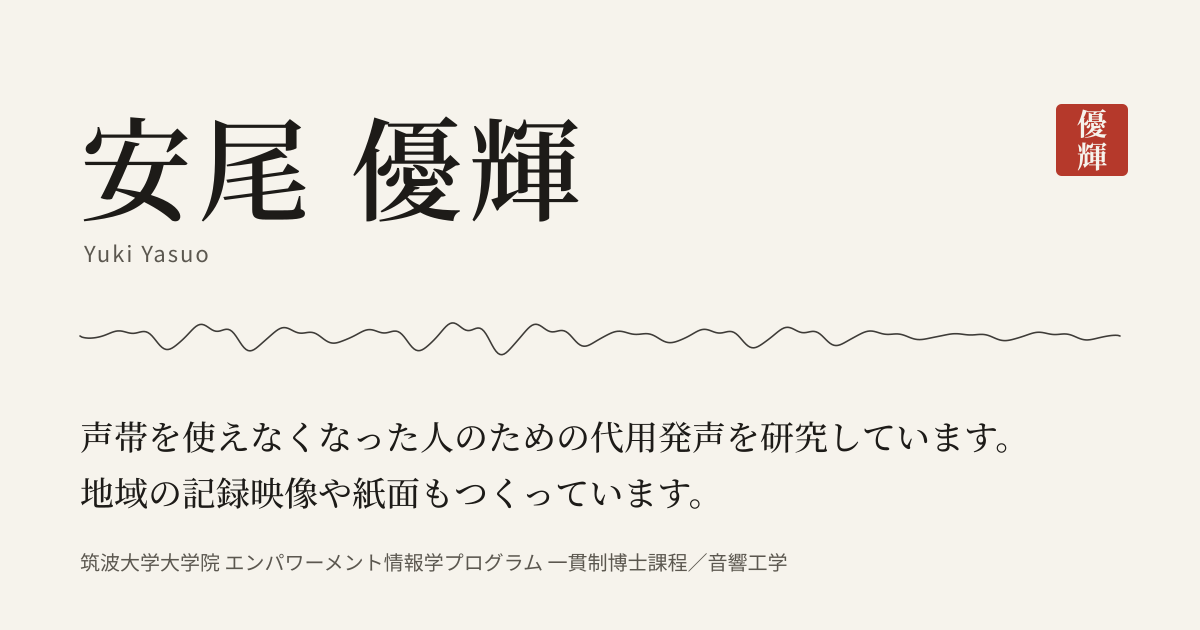
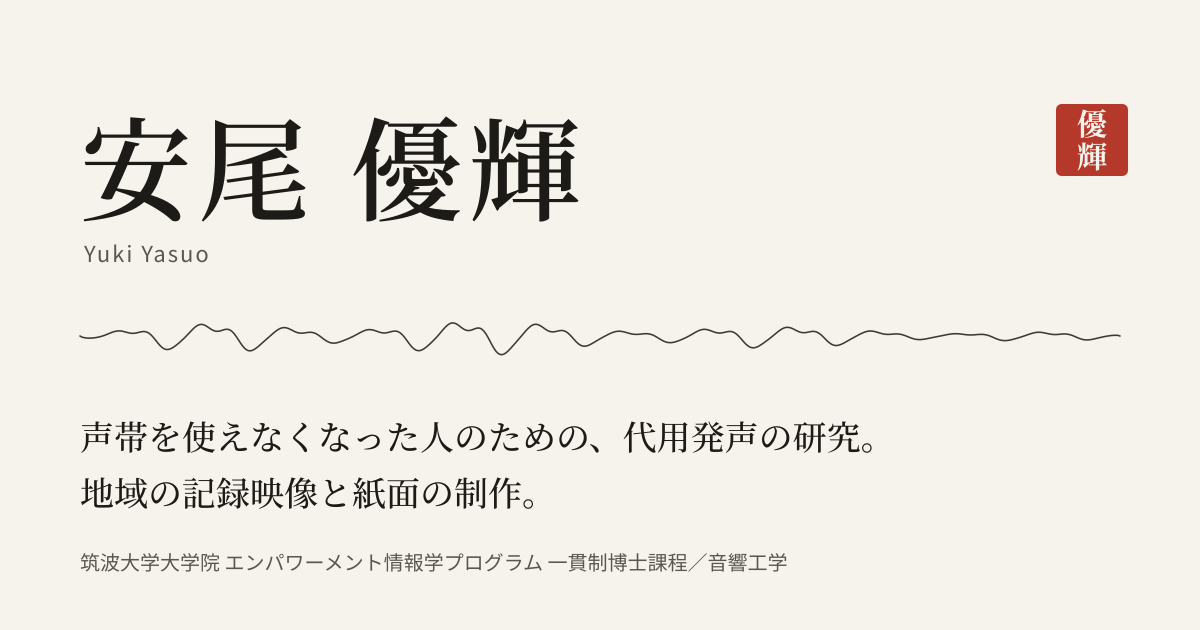
文章を体言止めに統一し、制作物へのリンクを廃止
- ヒーロー・自己紹介・制作と研究・できることの文章を体言止めに書き直し
- 制作物へのリンク（このサイトのGitHubリンク）を外し、Work 型から link を削除
- OGP画像の二文を更新して再生成。AGENT.md / README に文体とリンクのルールを追記

Claude-Session: https://claude.ai/code/session_015h4DyDUHXbUh6sVWR5egaT

diff --git a/data/works.ts b/data/works.ts
@@ -2,19 +2,19 @@ export interface Work {
   title: string
   period: string // 表示用の時期（例: '2025年10月撮影、2026年10月改訂'）
   role: string // 担当した作業（例: '編集・字幕'）
-  summary: string[] // 本文。段落ごとに1要素
-  link?: { href: string; label: string } // 外部リンク（任意。動画へのリンクは載せない）
+  summary: string[] // 本文。段落ごとに1要素。体言止めで書く
 }
 
 // 並び順は見せたい順（おおむね動きの新しいものが上）。研究も制作と同じ並びに置く。
+// 制作物へのリンク（動画・リポジトリ）は載せない。
 export const works: Work[] = [
   {
     title: '熊野古道 中辺路の郷土料理 記録映像',
     period: '2025年10月撮影、2026年10月改訂',
     role: '編集・字幕',
     summary: [
-      '熊野古道・中辺路に伝わる郷土料理を、地元の方の調理と語りで記録した全9編。食材の説明から始まり、茶粥、めはり寿司、さんま寿司、栗ご飯、柿なます、天ぷら、いたどり、ぜんまいと続きます。',
-      '2026年の秋に全編を改訂しました。料理ごとの手順を追えるよう要点の字幕を入れ直し、語りの順番を組み替え、見出しの位置を揃えています。改訂前後と撮影素材の対応は表で管理し、カットごとに音のずれがないか照合しました。字幕の配置と書き出しは、PythonからDaVinci Resolveを操作して揃えています。',
+      '熊野古道・中辺路に伝わる郷土料理を、地元の方の調理と語りで記録した全9編。食材の説明に始まり、茶粥、めはり寿司、さんま寿司、栗ご飯、柿なます、天ぷら、いたどり、ぜんまい。',
+      '2026年秋に全編を改訂。料理ごとの手順を追えるよう要点の字幕を入れ直し、語りの順番を組み替え、見出しの位置を統一。改訂前後と撮影素材の対応は表で管理し、カットごとに音のずれを照合。字幕の配置と書き出しは、PythonからDaVinci Resolveを操作して自動化。',
     ],
   },
   {
@@ -22,8 +22,8 @@ export const works: Work[] = [
     period: '2025年8月、2026年8月',
     role: '撮影・編集',
     summary: [
-      '長野県伊那市で開かれる中高生の合宿「伊那グローカルキャンプ」の報告動画。地域で活躍する人たちと中高生が語り合う合宿です。',
-      '2年続けて担当し、撮影から編集・納品までを一人で行いました。',
+      '長野県伊那市で開かれる中高生の合宿「伊那グローカルキャンプ」の報告動画。地域で活躍する人たちと中高生が語り合う合宿。',
+      '2年続けて担当。撮影から編集・納品までを一人で。',
     ],
   },
   {
@@ -31,39 +31,34 @@ export const works: Work[] = [
     period: '2025年〜',
     role: '研究',
     summary: [
-      '声帯を使えなくなった人が、自然な操作と発音で話せる代用発声システムの研究。卒業研究では、口腔内に音源を導入して自然音声のスペクトルを再現する方法に取り組みました。',
-      '博士課程ではトーキングモジュレータ方式で、操作のしやすさと発音の自然さを同時に上げる方法を研究しています。',
+      '声帯を使えなくなった人が、自然な操作と発音で話せる代用発声システムの研究。卒業研究は、口腔内に音源を導入して自然音声のスペクトルを再現する方法。',
+      '博士課程ではトーキングモジュレータ方式で、操作のしやすさと発音の自然さを同時に上げる方法を研究中。',
     ],
   },
   {
     title: 'ポートフォリオサイト（このサイト）',
     period: '2026年',
     role: '設計・実装',
-    summary: [
-      'Next.jsの静的書き出しでGitHub Pagesに置いています。2026年10月に、黒地のテック調から、紙色の地に墨色で組む印刷物のような見た目へ作り直しました。',
-    ],
-    link: { href: 'https://github.com/yukikari/my-portfolio', label: 'GitHubでソースを見る' },
+    summary: ['Next.jsの静的書き出しでGitHub Pagesに公開。文章はデータファイルに集約し、2026年10月に全面的に作り直し。'],
   },
   {
     title: 'オンライン文化祭の動画配信',
     period: '2021年',
     role: '企画・編集・配信',
     summary: [
-      'コロナ禍で来場できなくなった文化祭を、30本以上の動画とライブ中継で届けました。文化委員会に動画班を立ち上げ、企画から配信までを回しました。',
+      'コロナ禍で来場できなくなった文化祭を、30本以上の動画とライブ中継で配信。文化委員会に動画班を立ち上げ、企画から配信までを担当。',
     ],
   },
   {
     title: '生徒会誌の紙面デザイン',
     period: '2020年',
     role: '紙面設計・編集',
-    summary: ['生徒会誌の紙面を初めて内製化し、例年の2倍の紙面を作りました。'],
+    summary: ['生徒会誌の紙面を初めて内製化し、例年の2倍の紙面を制作。'],
   },
   {
     title: '文化祭の待ち時間表示システム',
     period: '2018年',
     role: '設計・実装',
-    summary: [
-      '複数の担当者がそれぞれ更新した待ち時間を、来場者向けの表示に即時反映する仕組みを自作しました。',
-    ],
+    summary: ['複数の担当者がそれぞれ更新した待ち時間を、来場者向けの表示に即時反映する仕組みを自作。'],
   },
 ]

diff --git a/data/profile.ts b/data/profile.ts
@@ -1,20 +1,21 @@
 // サイト全体で使う本人の文章。文言はここだけを直せば反映される。
-// 名前と二文は scripts/generate-assets.js（OGP画像）にも同じ値を持たせている。
+// 文体は体言止め（「〜しています」ではなく「〜の研究」）。
+// 名前・二文・所属は scripts/generate-assets.js（OGP画像）にも同じ値を持たせている。
 
 export const profile = {
   name: '安尾 優輝',
   nameRomanized: 'Yuki Yasuo',
   // Hero の短い二文。研究と制作を無理に一文にまとめない。
-  tagline: ['声帯を使えなくなった人のための代用発声を研究しています。', '地域の記録映像や紙面もつくっています。'],
+  tagline: ['声帯を使えなくなった人のための、代用発声の研究。', '地域の記録映像と紙面の制作。'],
   affiliation: '筑波大学大学院 エンパワーメント情報学プログラム 一貫制博士課程／音響工学',
   // <meta name="description"> と OGP の説明文
   siteDescription: '代用発声の研究と、映像・紙面の制作。筑波大学大学院 博士課程。',
   // About の本文。段落ごとに1要素。Hero と「制作と研究」で書いたことは繰り返さない。
   intro: [
-    '中学の委員会で動画記録の仕組みをつくり、文化祭の配信や生徒会誌の紙面づくりを経て、いまは地域の記録映像の編集や、合宿の報告動画の撮影・編集を引き受けています。',
-    '合唱団で歌い、指揮も振ります。映画も好きです。',
+    '中学の委員会で動画記録の仕組みづくり。文化祭の配信、生徒会誌の紙面づくりを経て、いまは地域の記録映像の編集と、合宿の報告動画の撮影・編集。',
+    '合唱団でテノールと指揮。映画も好き。',
   ],
-  contactNote: 'ご連絡はメールからどうぞ。個人で書いたコードはGitHubに置いています。',
+  contactNote: '連絡はメールへ。個人で書いたコードはGitHubに。',
   contact: {
     github: 'https://github.com/yukikari',
     githubLabel: 'github.com/yukikari',

diff --git a/data/skills.ts b/data/skills.ts
@@ -3,12 +3,12 @@ export interface SkillGroup {
   body: string
 }
 
-// 数値のレベル表示はやめ、作業の領域ごとに何ができるかを文章で書く。
+// 数値のレベル表示はやめ、作業の領域ごとに何ができるかを体言止めで書く。
 // 3つの見出しは「作業領域」で揃える（成果物名や技術名を混ぜない）。
 export const skillGroups: SkillGroup[] = [
   {
     title: '映像制作',
-    body: '撮影と、DaVinci Resolveでの編集。字幕と説明テロップの設計、音量の調整、納品仕様の確認、BGMのライセンス確認まで一人で行います。',
+    body: '撮影と、DaVinci Resolveでの編集。字幕と説明テロップの設計、音量の調整、納品仕様の確認、BGMのライセンス確認まで一人で。',
   },
   {
     title: '紙面・文章',
@@ -16,6 +16,6 @@ export const skillGroups: SkillGroup[] = [
   },
   {
     title: 'ソフトウェア開発',
-    body: '研究の信号処理や深層学習のコードはPythonで、このサイトのようなWebはTypeScriptとNext.jsで書きます。編集ソフトをスクリプトから動かして、繰り返しの作業も自動化します。',
+    body: '研究の信号処理や深層学習のコードはPython、このサイトのようなWebはTypeScriptとNext.js。編集ソフトをスクリプトから動かす自動化も。',
   },
 ]

diff --git a/data/timeline.ts b/data/timeline.ts
@@ -8,7 +8,7 @@ export interface TimelineItem {
 export const timeline: TimelineItem[] = [
   { year: '2016', title: '灘中学校 入学' },
   { year: '2018', title: '中学の委員会に動画編集を広め、動画記録の仕組みを整備' },
-  { year: '2019', title: 'PKSHA Technology 夏季短期インターン（1回目）', sub: '深層学習を学ぶ' },
+  { year: '2019', title: 'PKSHA Technology 夏季短期インターン（1回目）', sub: '深層学習を習得' },
   { year: '2020', title: 'PKSHA Technology 夏季短期インターン（2回目）' },
   { year: '2020', title: '生徒会誌 副会長（会誌担当）' },
   { year: '2021', title: '文化委員会に動画班を設立' },

diff --git a/scripts/generate-assets.js b/scripts/generate-assets.js
@@ -29,7 +29,7 @@ const OG_HEIGHT = 630
 // 名前・二文・所属を変えたときは両方を直す。
 const NAME = '安尾 優輝'
 const NAME_ROMANIZED = 'Yuki Yasuo'
-const TAGLINE = ['声帯を使えなくなった人のための代用発声を研究しています。', '地域の記録映像や紙面もつくっています。']
+const TAGLINE = ['声帯を使えなくなった人のための、代用発声の研究。', '地域の記録映像と紙面の制作。']
 const AFFILIATION = '筑波大学大学院 エンパワーメント情報学プログラム 一貫制博士課程／音響工学'
 
 function voiceLinePath(width, height, offsetX, offsetY) {

diff --git a/components/Works.tsx b/components/Works.tsx
@@ -17,11 +17,6 @@ export default function Works() {
               {work.summary.map((paragraph) => (
                 <p key={paragraph}>{paragraph}</p>
               ))}
-              {work.link && (
-                <a href={work.link.href} target="_blank" rel="noopener noreferrer" className={styles.link}>
-                  {work.link.label}
-                </a>
-              )}
             </div>
           </li>
         ))}

diff --git a/components/Works.module.scss b/components/Works.module.scss
@@ -73,19 +73,6 @@
   }
 }
 
-.link {
-  display: inline-block;
-  margin-top: 0.9em;
-  font-size: 0.95rem;
-  border-bottom: 1px solid var(--ink);
-  transition: color 0.2s ease, border-color 0.2s ease;
-
-  &:hover {
-    color: var(--accent);
-    border-bottom-color: var(--accent);
-  }
-}
-
 @media (max-width: 900px) {
   .section {
     padding-top: 44px;

diff --git a/AGENT.md b/AGENT.md
@@ -4,7 +4,7 @@
 
 ## 掲載内容のルール（本人の指示。変更は本人の明示的な指示があるときだけ）
 
-- 動画の埋め込み、動画へのリンク、動画のサムネイルは載せない。実績は文章で説明する
+- 動画の埋め込み、動画へのリンク、動画のサムネイルは載せない。制作物へのリンク（リポジトリ含む）も載せない。実績は文章で説明する
 - 熊野古道の記録映像は公開URLを載せない
 - 載せる実績は `data/works.ts` にあるものだけ。本人の手元にある他の案件（非公開の依頼仕事や提出案）は、本人がチャットで「載せてよい」と言ったものだけ追加する。このリポジトリは公開されているので、非公開案件の名前はここにも書かない
 - 所属・肩書・年月は記憶で書かず、`data/` の既存記述か本人の指示に合わせる
@@ -12,7 +12,7 @@
 
 ## 文章のルール
 
-- 一人称で、具体的に書く。「〜を実現」「〜に貢献」「両面から」のような、まとまりが良いだけの言い回しは避ける
+- 文体は体言止め（「〜しています」「〜しました」ではなく「〜の研究」「〜を担当」）。具体的に書き、「〜を実現」「〜に貢献」「両面から」のような、まとまりが良いだけの言い回しは避ける
 - 並列の見出し（できること・担当）は同じ軸で揃える。「できること」は作業領域（映像制作／紙面・文章／ソフトウェア開発）
 - ヒーローと自己紹介で同じ話を繰り返さない。経歴は年と節目だけ、中身は `data/works.ts`
 - 日付は「2026年7月7日」形式。ISO形式を残さない
